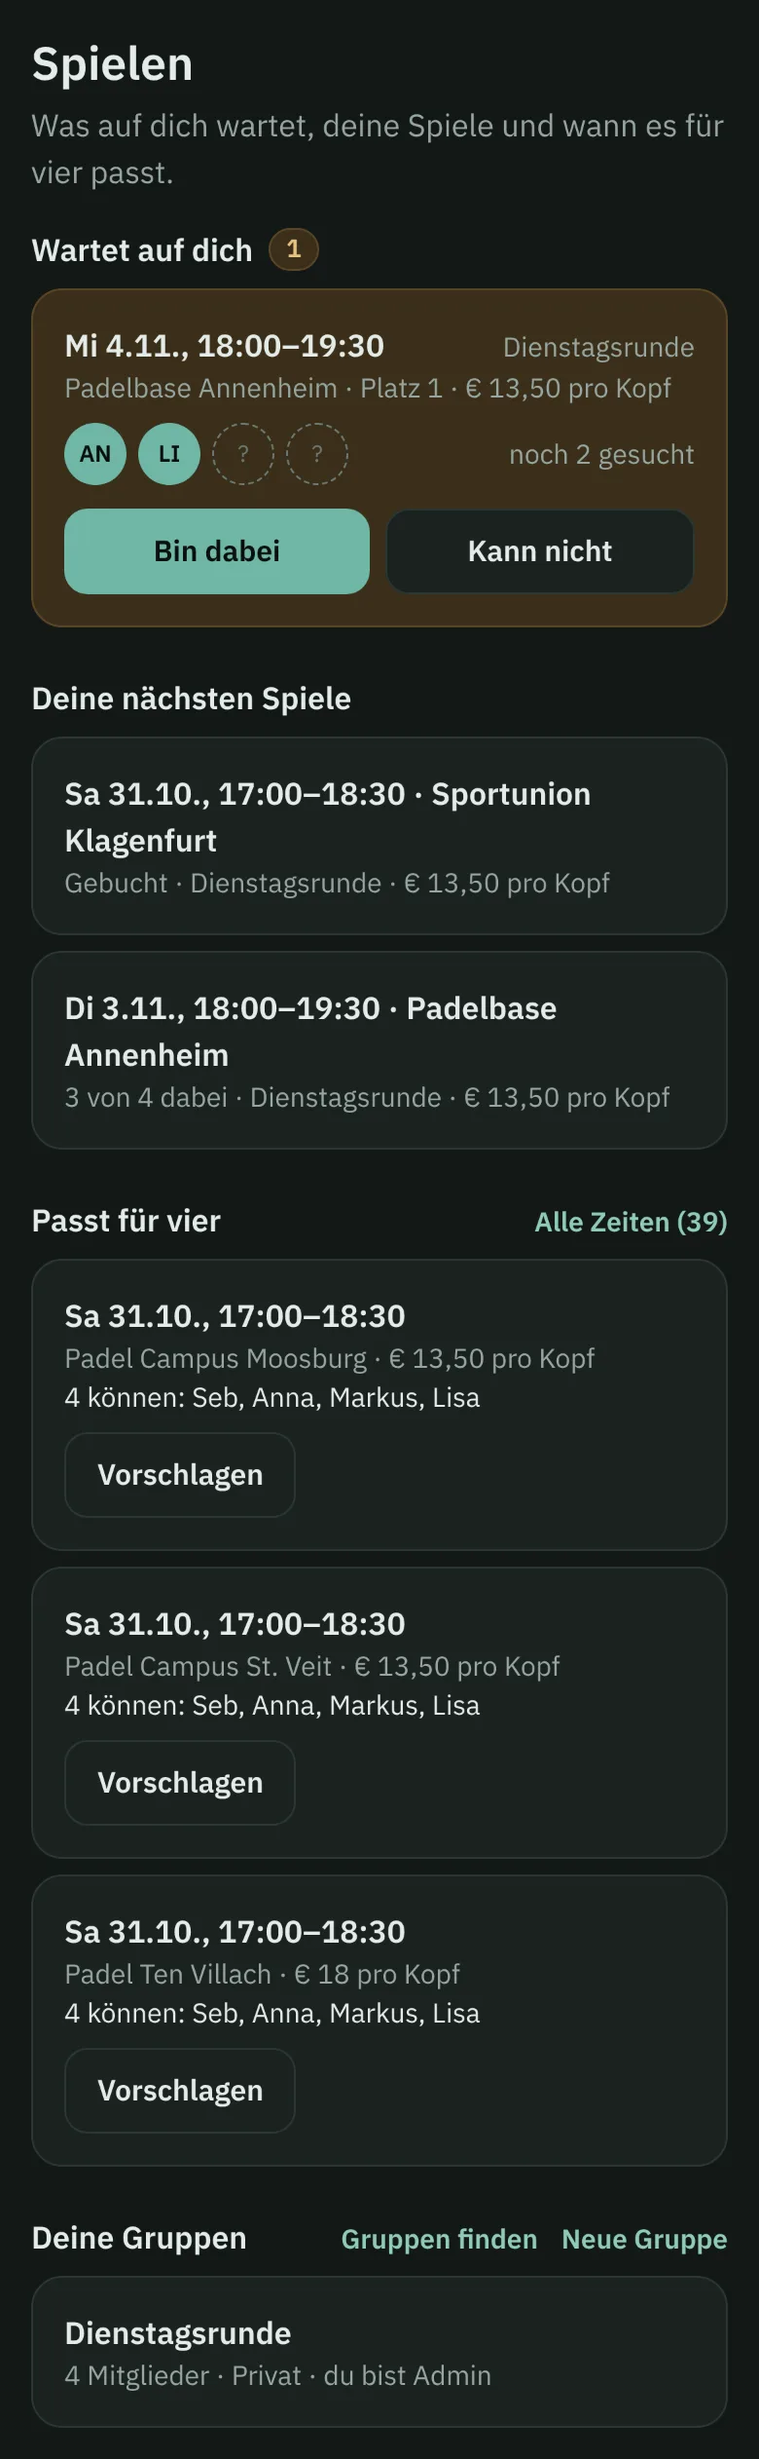
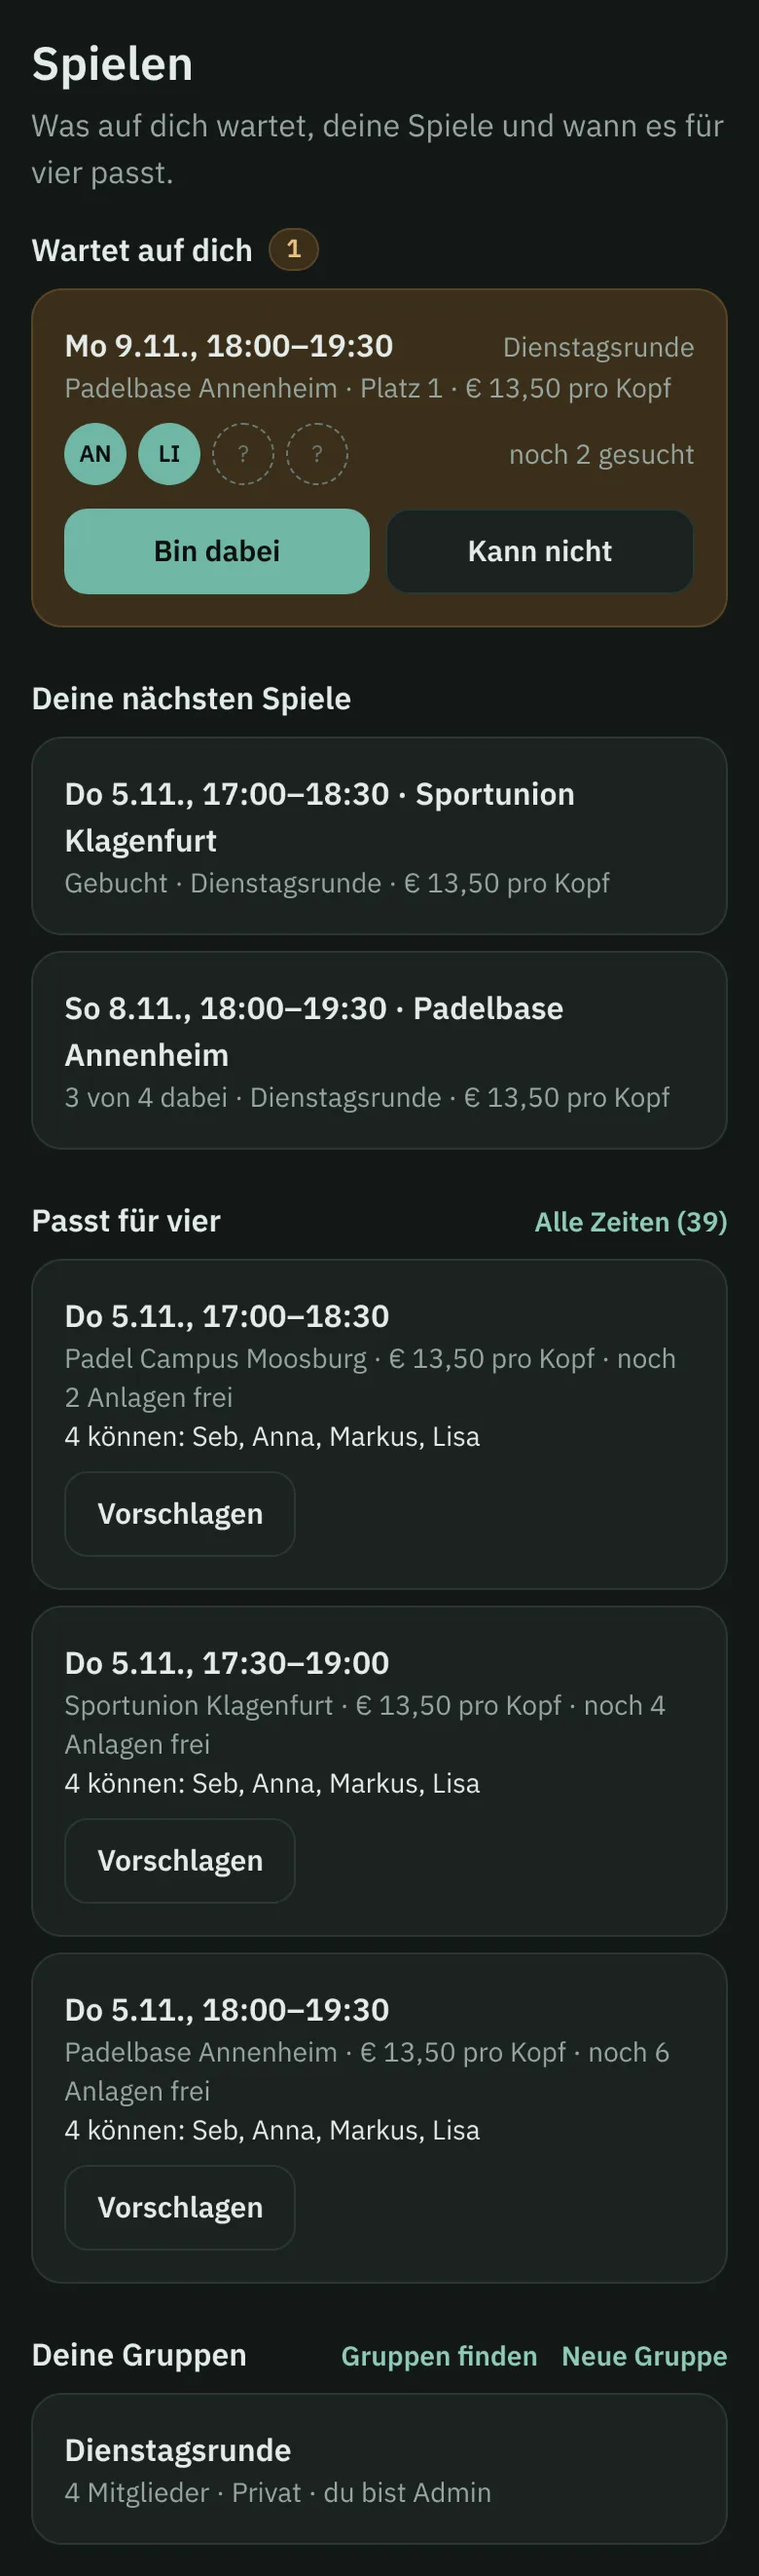
Passt für vier: one card a time, its venues inside
Why: the same time and people showed once per venue, so the three on
Spielen were often one time three times (usability review, idea 10).
What: Wann passt es für vier groups a day's fits by time, length and
who can; one card, venues cheapest first, each with Vorschlagen.
BestFits shows three distinct times, the cheapest venue and "noch n
Anlagen frei"; Alle Zeiten still lists all. Docs games.md, pictures
spiele-passt and spielen made again, release note.
Checked: Vitest for games; pictures looked at.
Thread: https://claude.ai/code/project/chan_014QcPHgeozJeG7xkT5y7Ejh?thread=cmsg_014QcPHgeozJeG7xkT5y7EjhGsraZ1oyoUaVxbDnS9pJXf

diff --git a/services/app/src/games/Fits.tsx b/services/app/src/games/Fits.tsx
@@ -2,7 +2,8 @@
 // times and the free courts allow, one tap from proposing one. The fits come
 // from the latest snapshot, which a schedule refreshes every 30 minutes; one
 // an hour old (the schedule missed), or none, is refreshed once on opening,
-// as on the courts. Where the group plays (Halle, Freiluft or
+// as on the courts. A time free at several venues is one card with each
+// venue to propose. Where the group plays (Halle, Freiluft or
 // both) is the group's; any member changes it under Verwalten.
 import { useMutation, useQuery, useQueryClient } from "@tanstack/react-query";
 import { useEffect, useRef, useState } from "react";
@@ -186,33 +187,47 @@ export function Fits() {
         <section key={day} className="mb-4">
           <h2 className="mb-2 font-semibold">{dayLabel(day)}</h2>
           <ul className="space-y-2">
-            {list.map((f) => (
-              <li key={`${f.venueId}-${f.start}`} className={`${card} p-4`}>
-                <div className="flex flex-wrap items-start justify-between gap-2">
-                  <div className="min-w-0">
-                    <div className="font-semibold">
-                      {span(f.start, f.minutes)} · {f.venueName}
-                    </div>
-                    <div className="text-sm text-ink-muted">
-                      {f.court}
-                      {f.perHead && ` · ${euros(f.perHead.amount)} pro Kopf`}
-                    </div>
-                    <div className="mt-1 text-sm">
-                      {f.can.length} können: {f.can.map(shown).join(", ")}
-                    </div>
+            {byTime(list).map((same) => {
+              const f = same[0]!;
+              return (
+                <li key={`${f.start}-${f.venueId}`} className={`${card} p-4`}>
+                  <div className="flex flex-wrap items-baseline justify-between gap-x-2">
+                    <span className="font-semibold">{span(f.start, f.minutes)}</span>
+                    {same.length > 1 && (
+                      <span className="text-sm text-ink-muted">{same.length} Anlagen frei</span>
+                    )}
                   </div>
-                  <button
-                    type="button"
-                    className={primary}
-                    disabled={propose.isPending}
-                    aria-label={`${dayLabel(f.day)} ${clock(f.start)} in ${f.venueName} vorschlagen`}
-                    onClick={() => propose.mutate(f)}
-                  >
-                    Vorschlagen
-                  </button>
-                </div>
-              </li>
-            ))}
+                  <div className="mb-2 text-sm">
+                    {f.can.length} können: {f.can.map(shown).join(", ")}
+                  </div>
+                  <ul className="divide-y divide-line border-t border-line">
+                    {same.map((v) => (
+                      <li
+                        key={v.venueId}
+                        className="flex items-center justify-between gap-3 py-2 last:pb-0"
+                      >
+                        <div className="min-w-0">
+                          <div className="font-semibold">{v.venueName}</div>
+                          <div className="text-sm text-ink-muted">
+                            {v.court}
+                            {v.perHead && ` · ${euros(v.perHead.amount)} pro Kopf`}
+                          </div>
+                        </div>
+                        <button
+                          type="button"
+                          className={same.length > 1 ? quiet : primary}
+                          disabled={propose.isPending}
+                          aria-label={`${dayLabel(v.day)} ${clock(v.start)} in ${v.venueName} vorschlagen`}
+                          onClick={() => propose.mutate(v)}
+                        >
+                          Vorschlagen
+                        </button>
+                      </li>
+                    ))}
+                  </ul>
+                </li>
+              );
+            })}
           </ul>
         </section>
       ))}
@@ -258,6 +273,22 @@ export function Fits() {
         </section>
       )}
     </main>
+  );
+}
+
+/**
+ * A day's fits by time and who can (Seb, 2026-11-04): one card for a time,
+ * with every venue free then, cheapest first, instead of the same time and
+ * people once per venue.
+ */
+function byTime(list: Fit[]): Fit[][] {
+  const by = new Map<string, Fit[]>();
+  for (const f of list) {
+    const k = `${f.start}-${f.minutes}-${f.can.map((p) => p.email).join(",")}`;
+    by.set(k, [...(by.get(k) ?? []), f]);
+  }
+  return [...by.values()].map((same) =>
+    same.sort((a, b) => (a.perHead?.amount ?? Infinity) - (b.perHead?.amount ?? Infinity)),
   );
 }
 

diff --git a/services/app/src/games/BestFits.tsx b/services/app/src/games/BestFits.tsx
@@ -85,8 +85,19 @@ export function BestFits({ group }: { group?: number }) {
     .filter(
       (p) => !proposed.has(`${p.groupId}/${p.f.venueId}/${p.f.court}/${p.f.day}/${p.f.start}`),
     )
-    .sort((a, b) => a.f.day.localeCompare(b.f.day) || a.f.start - b.f.start);
-  const picks = every.slice(0, SHOWN);
+    .sort(
+      (a, b) =>
+        a.f.day.localeCompare(b.f.day) ||
+        a.f.start - b.f.start ||
+        (a.f.perHead?.amount ?? Infinity) - (b.f.perHead?.amount ?? Infinity),
+    );
+  // The three are three times (Seb, 2026-11-04): a time free at several
+  // venues shows its cheapest and how many more; Alle Zeiten has them all.
+  const others = new Map<string, number>();
+  for (const p of every) others.set(timeOf(p), (others.get(timeOf(p)) ?? -1) + 1);
+  const picks = every
+    .filter((p, i) => every.findIndex((q) => timeOf(q) === timeOf(p)) === i)
+    .slice(0, SHOWN);
   const loading = fits.some((q) => q.isPending);
   const failed = fits.length > 0 && fits.every((q) => q.isError);
   const one = mine.length === 1 ? mine[0]! : undefined;
@@ -144,7 +155,9 @@ export function BestFits({ group }: { group?: number }) {
           )}
         </p>
       )}
-      {picks.length > 0 && <ul className="space-y-2">{picks.map((p) => row(p, true, !one))}</ul>}
+      {picks.length > 0 && (
+        <ul className="space-y-2">{picks.map((p) => row(p, true, !one, others.get(timeOf(p))))}</ul>
+      )}
       {propose.isError && !all && (
         <p role="alert" className="mt-2 text-sm text-danger-text">
           {errorText(propose.error)}
@@ -186,7 +199,7 @@ export function BestFits({ group }: { group?: number }) {
     </section>
   );
 
-  function row(p: Pick, withDay: boolean, withGroup: boolean) {
+  function row(p: Pick, withDay: boolean, withGroup: boolean, more = 0) {
     return (
       <li
         key={keyOf(p)}
@@ -202,6 +215,7 @@ export function BestFits({ group }: { group?: number }) {
             {withDay ? p.f.venueName : p.f.court}
             {p.f.perHead && ` · ${euros(p.f.perHead.amount)} pro Kopf`}
             {withGroup && ` · ${p.groupName}`}
+            {more > 0 && ` · noch ${more} ${more === 1 ? "Anlage" : "Anlagen"} frei`}
           </div>
           <div className="text-sm">
             {p.f.can.length} können: {p.f.can.map(shown).join(", ")}
@@ -220,6 +234,10 @@ export function BestFits({ group }: { group?: number }) {
     );
   }
 }
+
+/** The same time for the same people in the same group, wherever. */
+const timeOf = (p: Pick) =>
+  `${p.groupId}-${p.f.day}-${p.f.start}-${p.f.minutes}-${p.f.can.map((c) => c.email).join(",")}`;
 
 const keyOf = (p: Pick) => `${p.groupId}-${p.f.venueId}-${p.f.court}-${p.f.day}-${p.f.start}`;
 

diff --git a/services/app/src/games/Spielen.test.tsx b/services/app/src/games/Spielen.test.tsx
@@ -175,7 +175,16 @@ describe("BestFits", () => {
         "GET /api/v1/groups": () =>
           answer(200, { items: [summary(1, "Dienstagsrunde"), summary(2, "Mittwochsliga")] }),
         "GET /api/v1/groups/1/fits": () =>
-          fits([fit({ day: "2026-11-05" }), fit({ day: "2026-10-29", start: 1110 })]),
+          fits([
+            fit({
+              day: "2026-11-05",
+              venueId: "spittal",
+              venueName: "Spittal",
+              perHead: { amount: 2000, currency: "EUR" },
+            }),
+            fit({ day: "2026-11-05" }),
+            fit({ day: "2026-10-29", start: 1110 }),
+          ]),
         "GET /api/v1/groups/2/fits": () =>
           fits([
             fit({
@@ -202,7 +211,10 @@ describe("BestFits", () => {
       "Fr 6.11., 19:00–20:30",
     ]);
     expect(items[0]).toHaveTextContent("Padelbase Annenheim · Mittwochsliga");
-    expect(items[1]).toHaveTextContent("Padel Villach · € 15 pro Kopf · Dienstagsrunde");
+    // Do 5.11. is free at two venues: one row, the cheaper, and how many more.
+    expect(items[1]).toHaveTextContent(
+      "Padel Villach · € 15 pro Kopf · Dienstagsrunde · noch 1 Anlage frei",
+    );
     expect(items[1]).toHaveTextContent("4 können: Seb, Anna, Markus, Lisa");
     expect(screen.queryByRole("link", { name: "Alle Zeiten" })).toBeNull();
 

diff --git a/services/app/src/games/Games.test.tsx b/services/app/src/games/Games.test.tsx
@@ -191,7 +191,18 @@ describe("Fits", () => {
     expect(await screen.findByRole("link", { name: "← Padel Kärnten" })).toBeInTheDocument();
     const days = screen.getAllByRole("heading", { level: 2 }).map((h) => h.textContent);
     expect(days.slice(0, 2)).toEqual(["Do 29.10.", "Fr 30.10."]);
-    expect(screen.getAllByText("4 können: Seb, Anna, markus, Lisa")).toHaveLength(3);
+    // The same time and people at two venues is one card, the cheaper first.
+    expect(screen.getAllByText("4 können: Seb, Anna, markus, Lisa")).toHaveLength(2);
+    const both = screen.getByText("2 Anlagen frei").closest("li")!;
+    expect(
+      within(both)
+        .getAllByRole("button")
+        .map((b) => b.getAttribute("aria-label")),
+    ).toEqual([
+      "Do 29.10. 18:30 in Padel Villach vorschlagen",
+      "Do 29.10. 18:30 in Annenheim vorschlagen",
+    ]);
+    expect(screen.getAllByText("2 Anlagen frei")).toHaveLength(1);
     expect(screen.getByText(/Frag Lisa oder Eva/)).toBeInTheDocument();
     // A fresh snapshot is not asked for again.
     expect(calls.some((c) => c.url.pathname === "/api/v1/slots/refresh")).toBe(false);

diff --git a/docs/design/games.md b/docs/design/games.md
@@ -51,8 +51,10 @@
 - **Who sees a game**: the members of its group, through the view
   `game_visibility`, like `group_visibility`; anyone else gets 404.
 - **In the app** (`services/app/src/games`): "Wann passt es für vier?" on
-  a group's page (`/groups/:id/fits`, duration chips, fits by day, one tap
-  to propose, near misses below with their own Vorschlagen); the game (`/games/:id`, its places as rounds with a line that says
+  a group's page (`/groups/:id/fits`, duration chips, fits by day, one card
+  per time and people with every venue free then, cheapest first, each
+  with its own Vorschlagen (Seb, 2026-11-04: the same time once per venue
+  was noise), near misses below with their own Vorschlagen); the game (`/games/:id`, its places as rounds with a line that says
   what is next, "So geht es weiter" with Vorgeschlagen, Vier sagen zu and
   who books where, Dabei n von 4,
   Ersatz, Können nicht, Noch keine Antwort, and for the proposer Zur
@@ -68,7 +70,8 @@
   person has not answered, with Bin dabei and Kann nicht on its card and
   the places as rounds (`Seats`); "Deine nächsten Spiele" (`Upcoming`)
   only those they are in or a reserve for; "Passt für vier" (`BestFits`)
-  the three soonest 90-minute fits from all their groups, leaving out
+  the three soonest 90-minute times from all their groups (one row a
+  time, its cheapest venue and "noch n Anlagen frei"), leaving out
   times already a game, with Vorschlagen. Alle Zeiten (shown only when
   there are more than three) opens all of them, by day and from every
   group, in the app's sheet; never one group's page, which made no sense

diff --git a/release_notes/2026-11-04-passt-fuer-vier-aufgeraeumt.md b/release_notes/2026-11-04-passt-fuer-vier-aufgeraeumt.md
@@ -1,0 +1,8 @@
+---
+date: 2026-11-04
+area: play
+title: „Passt für vier“ ohne Doppelte
+---
+Ist eine Zeit in mehreren Anlagen frei, steht sie jetzt nur noch einmal da. Darunter siehst du die Anlagen, die günstigste zuerst, und schlägst in der vor, die dir passt.
+
+Auf Spielen zeigt „Passt für vier“ so drei verschiedene Zeiten statt dreimal dieselbe, mit dem Hinweis, wie viele Anlagen noch frei sind.
